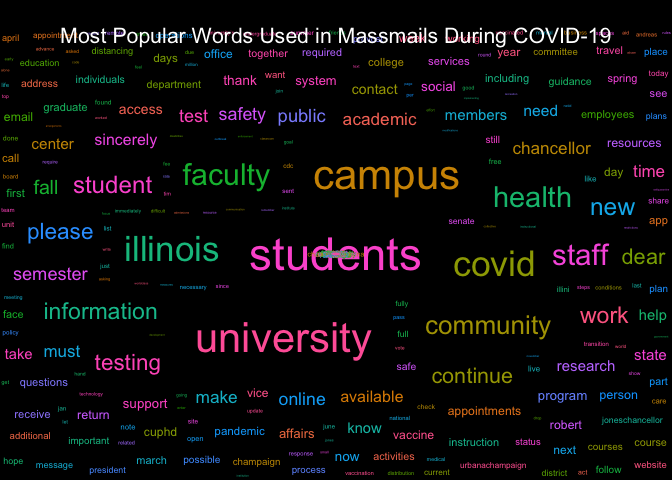
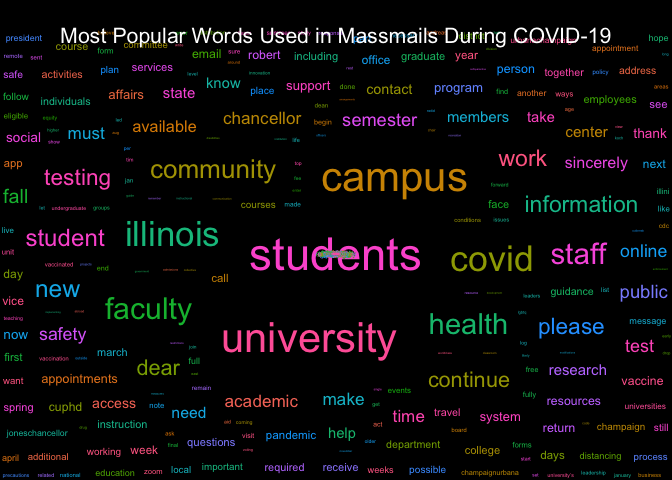
Re-build README.Rmd and Graphs

diff --git a/README.md b/README.md
@@ -17,7 +17,7 @@ The archive may be viewed here:
 
 <https://massmail.illinois.edu/massmailArchive>
 
-Data has **1353** observations and **7** variables:
+Data has **1355** observations and **7** variables:
 
   - `datetime`: Date and time when the email was sent in the form of
     `YYYY-MM-DD HMS` with either CDT or CST.
@@ -210,16 +210,16 @@ head(most_popular_words, 10) %>%
 
 | word        | freq |
 | :---------- | ---: |
-| students    |  972 |
-| university  |  937 |
-| campus      |  848 |
-| illinois    |  601 |
-| covid       |  583 |
-| faculty     |  524 |
-| community   |  510 |
-| health      |  462 |
-| staff       |  420 |
-| information |  414 |
+| students    |  978 |
+| university  |  942 |
+| campus      |  851 |
+| illinois    |  602 |
+| covid       |  589 |
+| faculty     |  527 |
+| community   |  514 |
+| health      |  467 |
+| staff       |  423 |
+| information |  415 |
 
 #### Wordcloud
 
